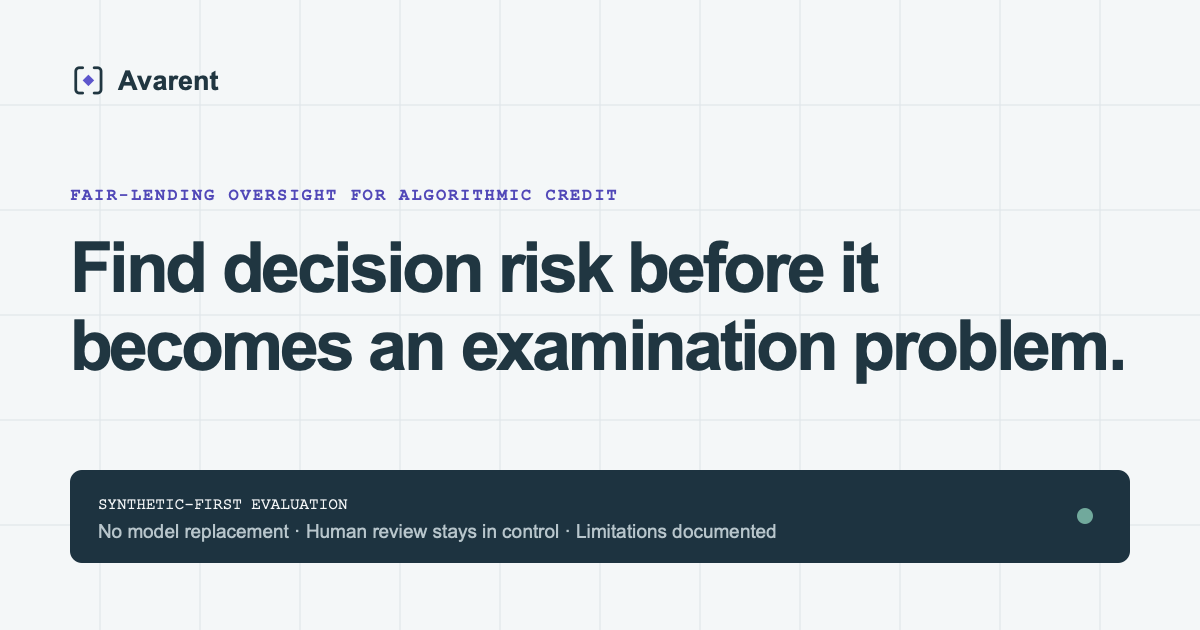
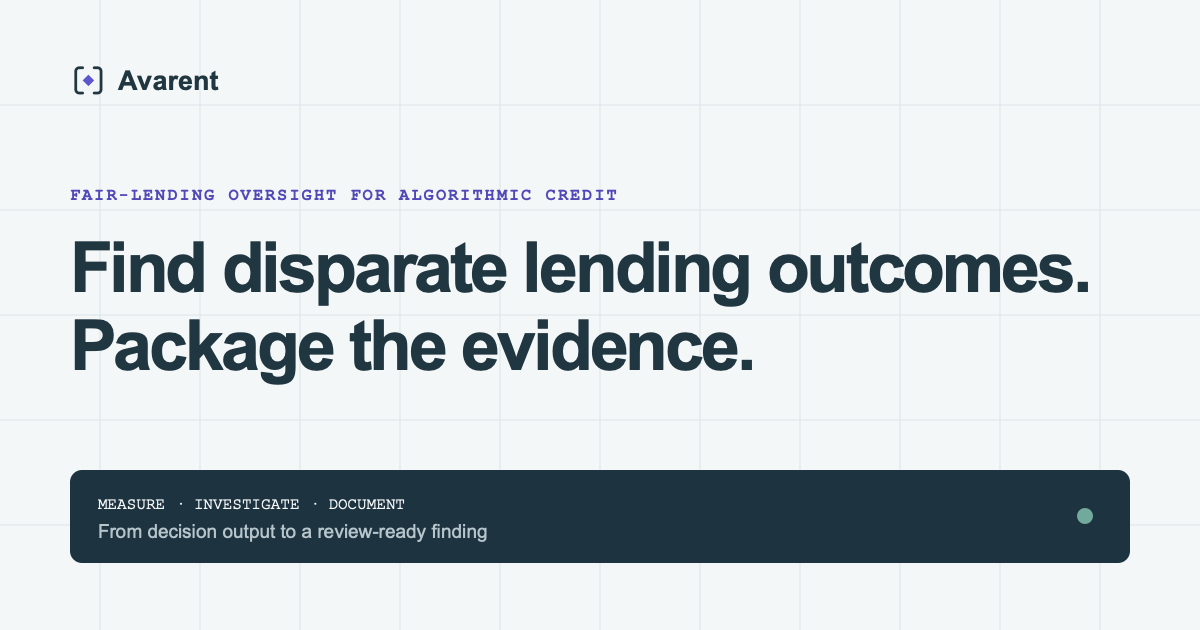
Improve conversion flow and automate outreach

diff --git a/src/styles.css b/src/styles.css
@@ -112,9 +112,9 @@ p { max-width: 70ch; }
 .hero-card-cta { min-height: 3.5rem; padding: .85rem 1.3rem .85rem 1.55rem; display: inline-flex; align-items: center; justify-content: center; gap: var(--space-lg); border-radius: 999px; background: var(--color-ink); color: var(--color-paper); font-weight: 650; text-decoration: none; transition: transform 160ms ease-out, background 160ms ease-out; }
 .hero-card-cta:hover { transform: translateY(-1px); background: var(--color-accent-dark); }
 .hero-card-link { display: inline-flex; align-items: center; gap: var(--space-xs); font-size: var(--text-sm); font-weight: 650; }
-.hero-card-boundary { width: min(100%, 46rem); margin-top: var(--space-xl); padding-top: var(--space-md); display: grid; grid-template-columns: repeat(3, minmax(0, 1fr)); border-top: 1px solid oklch(43% .03 238 / .35); color: var(--color-ink-2); font-size: var(--text-xs); }
-.hero-card-boundary span { padding-inline: var(--space-sm); border-right: 1px solid oklch(43% .03 238 / .25); }
-.hero-card-boundary span:last-child { border-right: 0; }
+.hero-card-outcomes { width: min(100%, 48rem); margin-top: var(--space-xl); padding-top: var(--space-md); display: grid; grid-template-columns: repeat(3, minmax(0, 1fr)); border-top: 1px solid oklch(43% .03 238 / .35); color: var(--color-ink); font-size: var(--text-sm); font-weight: 620; }
+.hero-card-outcomes span { padding-inline: var(--space-sm); border-right: 1px solid oklch(43% .03 238 / .25); }
+.hero-card-outcomes span:last-child { border-right: 0; }
 .page-directory { margin-top: var(--space-xl); display: grid; grid-template-columns: repeat(6, minmax(0, 1fr)); border-top: 1px solid var(--color-ink); border-bottom: 1px solid var(--color-rule); }
 .page-directory__label { grid-column: 1 / -1; padding: .7rem 0; color: var(--color-ink-2); font-size: var(--text-xs); font-weight: 650; }
 .page-directory a { min-width: 0; padding: var(--space-md) var(--space-sm); display: grid; grid-template-columns: auto 1fr auto; align-items: center; gap: var(--space-xs); border-top: 1px solid var(--color-rule); border-right: 1px solid var(--color-rule); text-decoration: none; transition: background 160ms ease-out, color 160ms ease-out; }
@@ -166,7 +166,7 @@ p { max-width: 70ch; }
 .system-heading { display: grid; grid-template-columns: .42fr 1fr .8fr; gap: var(--space-xl); align-items: start; padding: var(--space-xl); border-bottom: 1px solid var(--color-rule); }
 .system-heading h2 { max-width: 16ch; font-size: var(--text-xl); }
 .system-heading > p:last-child { margin: 0; color: var(--color-ink-2); font-size: var(--text-sm); }
-.system-flow { display: grid; grid-template-columns: repeat(5, minmax(0, 1fr)); }
+.system-flow { display: grid; grid-template-columns: repeat(3, minmax(0, 1fr)); }
 .system-flow article { min-height: 12rem; padding: var(--space-lg); position: relative; display: flex; flex-direction: column; justify-content: space-between; gap: var(--space-sm); border-right: 1px solid var(--color-rule); }
 .system-flow article:last-child { border-right: 0; background: var(--color-ink); color: var(--color-dark-text); }
 .system-flow article > span { font-family: var(--font-mono); font-size: var(--text-xs); color: var(--color-accent-dark); }
@@ -395,8 +395,8 @@ details p { color: var(--color-ink-2); margin: 0 0 var(--space-lg); }
   .hero-card h1 { font-size: clamp(2.8rem, 13vw, 3.55rem); }
   .hero-card-actions { width: 100%; }
   .hero-card-cta { width: 100%; }
-  .hero-card-boundary { grid-template-columns: 1fr; gap: .6rem; text-align: left; }
-  .hero-card-boundary span { padding-inline: 0; border-right: 0; }
+  .hero-card-outcomes { grid-template-columns: 1fr; gap: .6rem; text-align: left; }
+  .hero-card-outcomes span { padding-inline: 0; border-right: 0; }
   .page-directory { width: 91vw; grid-template-columns: repeat(2, minmax(0, 1fr)); }
   .page-directory a:nth-of-type(3) { border-right: 1px solid var(--color-rule); }
   .page-directory a:nth-of-type(even) { border-right: 0; }

diff --git a/components/ui/hero-dithering-card.tsx b/components/ui/hero-dithering-card.tsx
@@ -40,16 +40,16 @@ export function CTASection() {
             <svg viewBox="0 0 32 32" aria-hidden="true"><path d="M11 5H8a3 3 0 0 0-3 3v16a3 3 0 0 0 3 3h3M21 5h3a3 3 0 0 1 3 3v16a3 3 0 0 1-3 3h-3" /><path className="hero-badge-decision" d="m16 11 5 5-5 5-5-5 5-5Z" /></svg>
             <span>Avarent</span>
           </a>
-          <h1>Find decision risk before it becomes an examination problem.</h1>
-          <p>Avarent helps lending teams measure outcome disparities, investigate explanation risk, and assemble evidence a qualified reviewer can inspect.</p>
+          <h1>Find disparate lending outcomes. Package the evidence.</h1>
+          <p>Measure where decisions diverge, investigate the drivers behind a finding, and give compliance and model-risk teams a review-ready record.</p>
           <div className="hero-card-actions">
-            <a className="hero-card-cta" href="#request" data-conversion-cta data-cta-label="Hero request">
-              <span>Start with one question</span><ArrowRight aria-hidden="true" size={20} />
+            <a className="hero-card-cta" href="/sample-evidence-packet.pdf" data-sample-packet>
+              <span>See the evidence</span><ArrowRight aria-hidden="true" size={20} />
             </a>
-            <a className="hero-card-link" href="/sample-evidence-packet.pdf" data-sample-packet>Inspect a sample packet <ArrowRight aria-hidden="true" size={17} /></a>
+            <a className="hero-card-link" href="#request" data-conversion-cta data-cta-label="Hero request">Scope one review <ArrowRight aria-hidden="true" size={17} /></a>
           </div>
-          <div className="hero-card-boundary" aria-label="Evaluation boundaries">
-            <span>Synthetic data first</span><span>No model changes</span><span>Decisions stay human-owned</span>
+          <div className="hero-card-outcomes" aria-label="Avarent outcomes">
+            <span>Spot disparate outcomes</span><span>Investigate the finding</span><span>Export review-ready evidence</span>
           </div>
         </div>
       </div>
